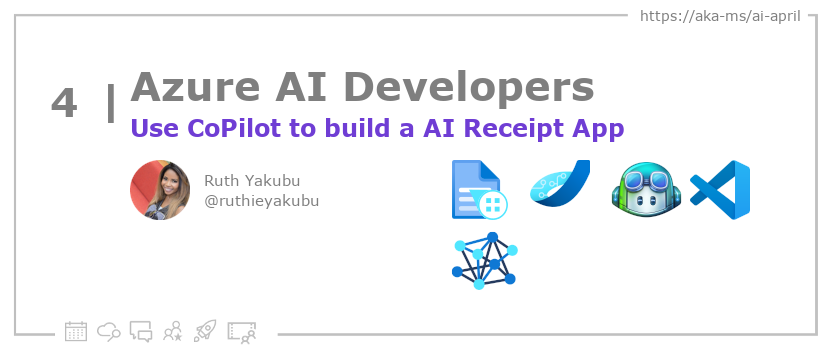
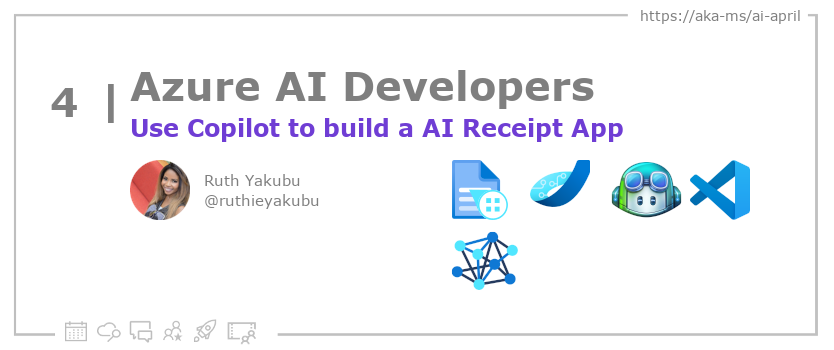
docs

Changed region(s): [[0.2494, 0.3429, 0.7482, 0.4]]

diff --git a/website/blog/2023-aia/2023-04-05-copilot-form-recognizer/index.md b/website/blog/2023-aia/2023-04-05-copilot-form-recognizer/index.md
@@ -1,6 +1,6 @@
 ---
 slug: 2023-day4
-title: "4. 🏁Use CoPilot to build a AI Receipt App"
+title: "4. 🏁Use Copilot to build a AI Receipt App"
 authors: ['Ruth']
 draft: false
 hide_table_of_contents: false
@@ -10,14 +10,14 @@ keywords: ['Form-Recognizers', 'Azure-Applied-AI-Services', 'CoPilot', 'vscode',
 tags: ['azure-ai', 'azure-cognitive-services', '30-days-of-azure-ai']
 
 image: "https://azureaidevs.github.io/hub/img/2023/banner-day4.png"
-description: "Learn how to use CoPilot to build an intelligent Receipt Recognition App powered by Azure Form Recognizer https://azureaidevs.github.io/hub/blog/2023-day4 #30DaysOfAzureAI #AzureAiDevs #AI #AzureCognitiveServices"
+description: "Learn how to use Copilot to build an intelligent Receipt Recognition App powered by Azure Form Recognizer https://azureaidevs.github.io/hub/blog/2023-day4 #30DaysOfAzureAI #AzureAiDevs #AI #AzureCognitiveServices"
 ---
 
 <head>
 
   <meta name="twitter:url" content="https://azureaidevs.github.io/hub/blog/2023-day4" />
-  <meta name="twitter:title" content="Use CoPilot to build a AI Receipt App" />
-  <meta name="twitter:description" content="Learn how to use CoPilot to build an intelligent Receipt Recognition App powered by Azure Form Recognizer https://azureaidevs.github.io/hub/blog/2023-day4 #30DaysOfAzureAI #AzureAiDevs #AI #AzureCognitiveServices" />
+  <meta name="twitter:title" content="Use Copilot to build a AI Receipt App" />
+  <meta name="twitter:description" content="Learn how to use Copilot to build an intelligent Receipt Recognition App powered by Azure Form Recognizer https://azureaidevs.github.io/hub/blog/2023-day4 #30DaysOfAzureAI #AzureAiDevs #AI #AzureCognitiveServices" />
   <meta name="twitter:image" content="https://azureaidevs.github.io/hub/img/2023/banner-day4.png" />
   <meta name="twitter:card" content="summary_large_image" />
 
@@ -39,7 +39,7 @@ The following description is also used for the tweet. So it should be action ori
 If you update the description, please update the description: in the frontmatter as well.
 -->
 
-**Learn how to use CoPilot to build an intelligent Receipt Recognition App powered by Azure Form Recognizer**
+**Learn how to use Copilot to build an intelligent Receipt Recognition App powered by Azure Form Recognizer**
 
 <!-- README
 The following is the intro to the post. It should be a short teaser for the post.
